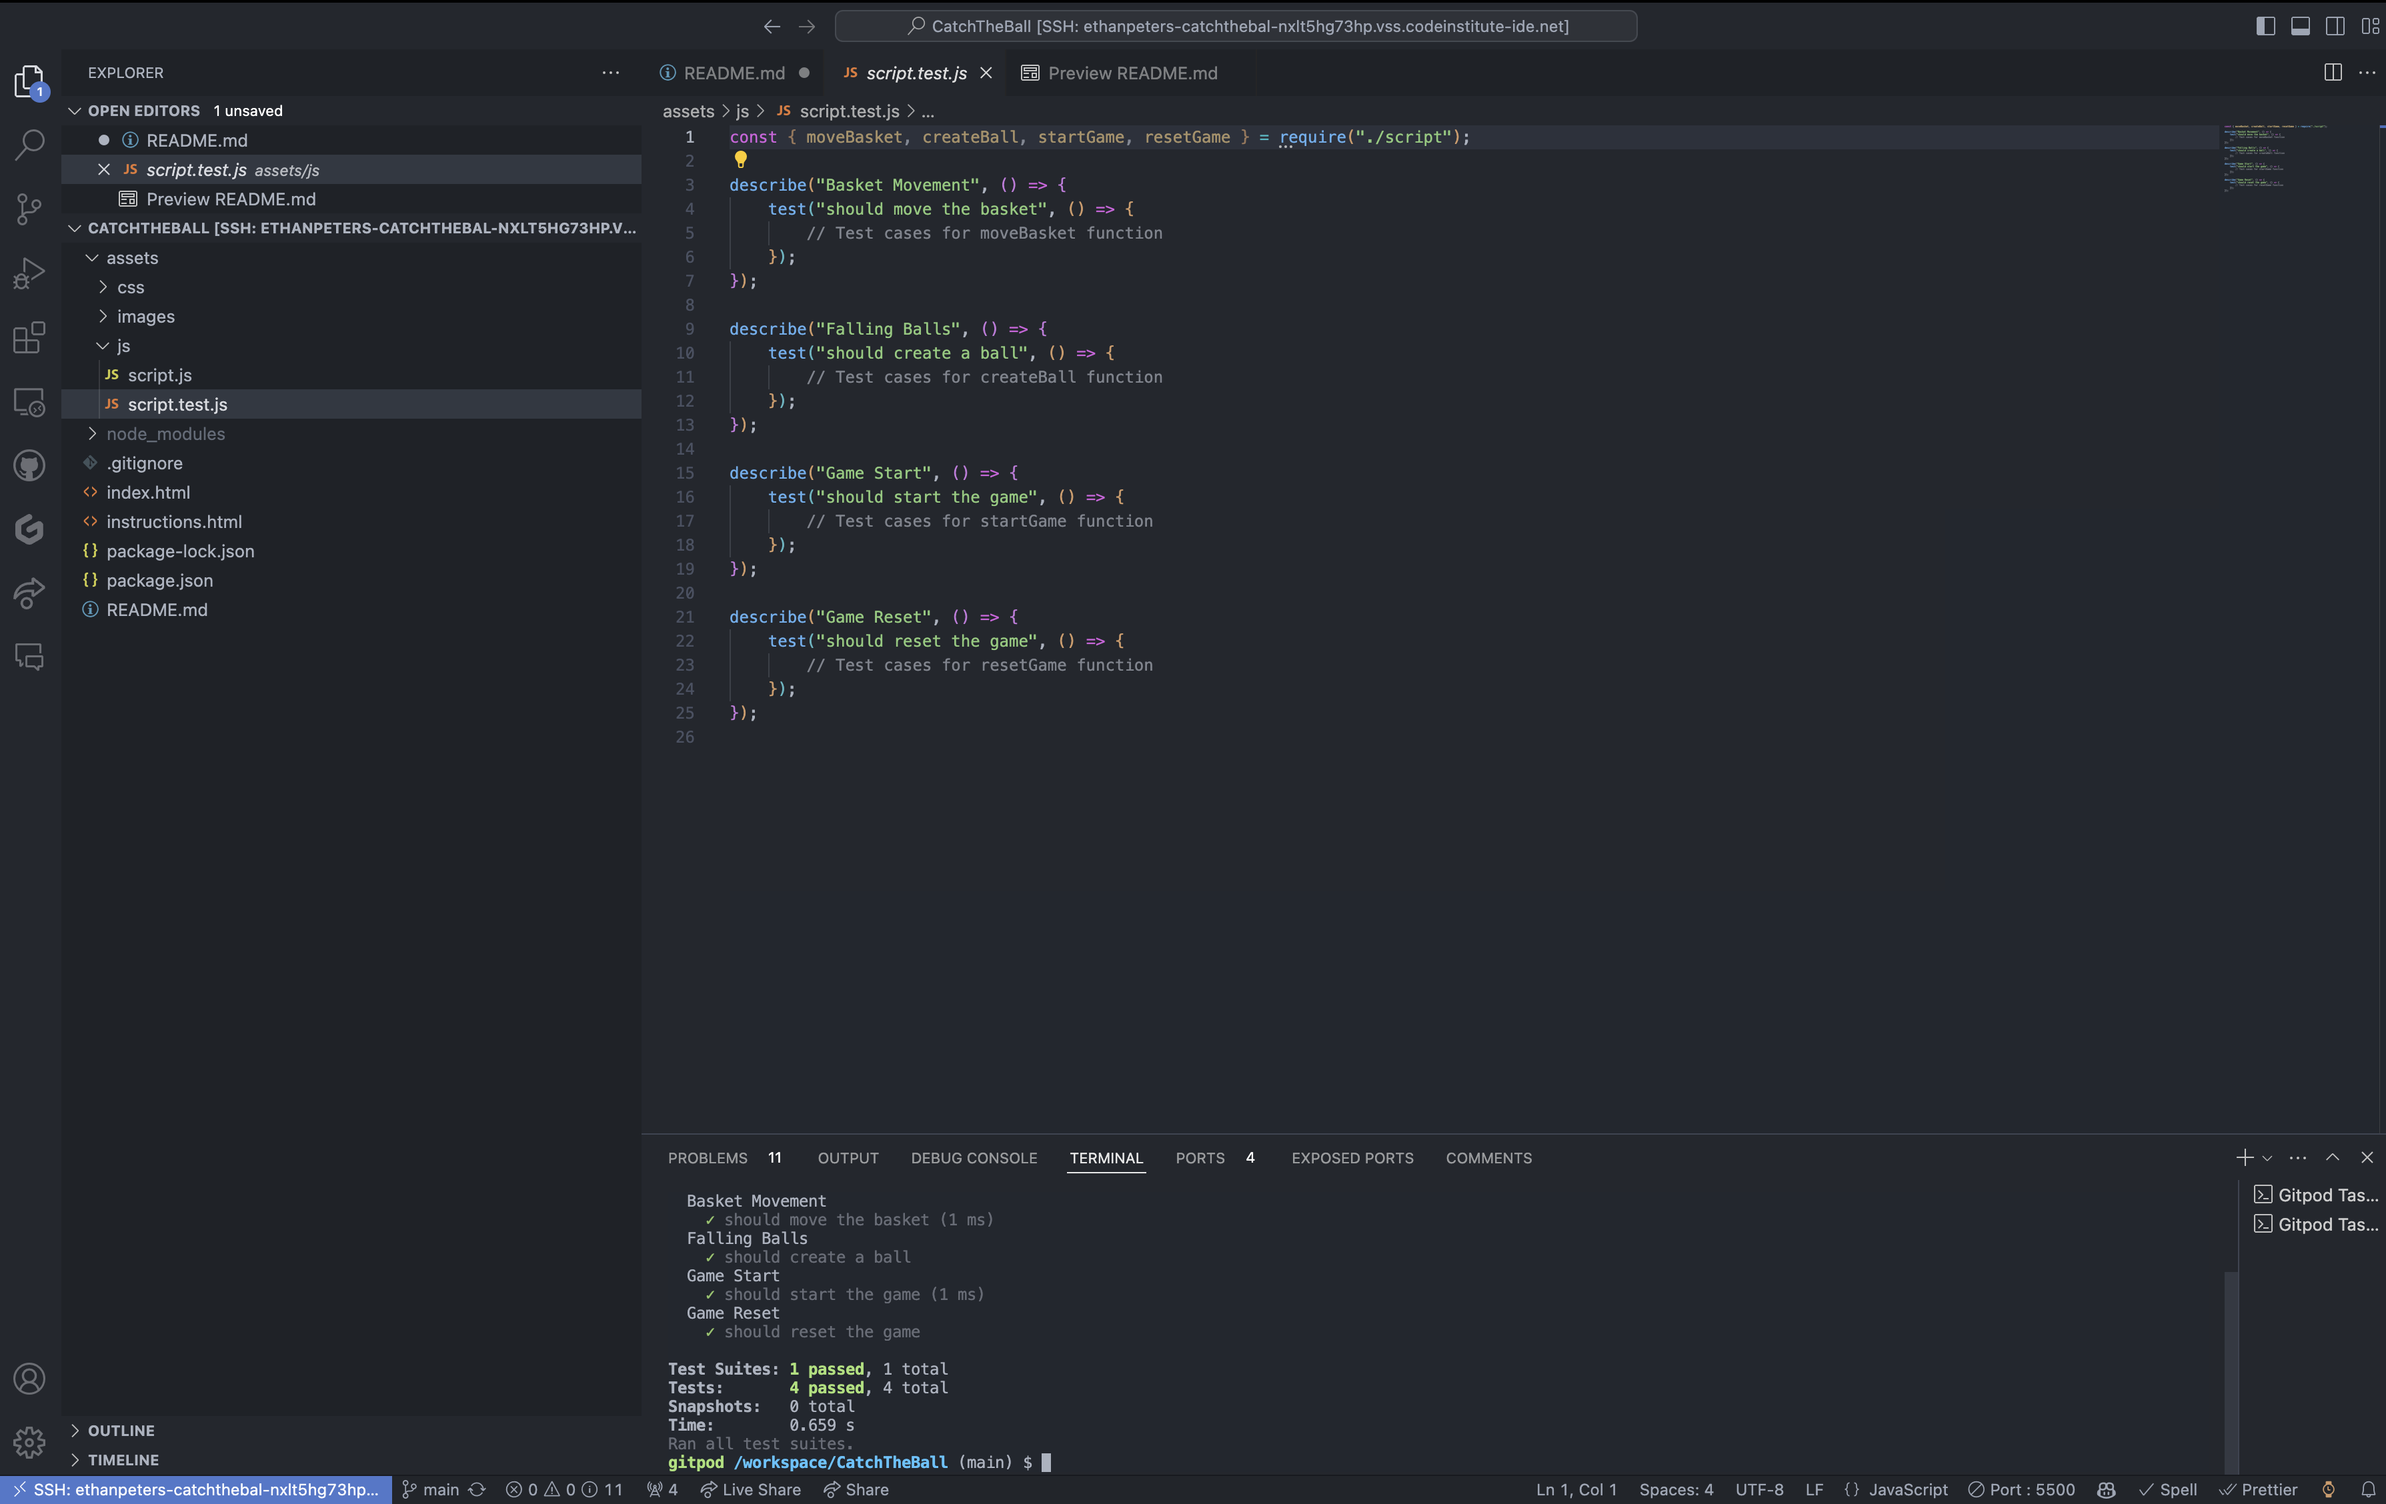
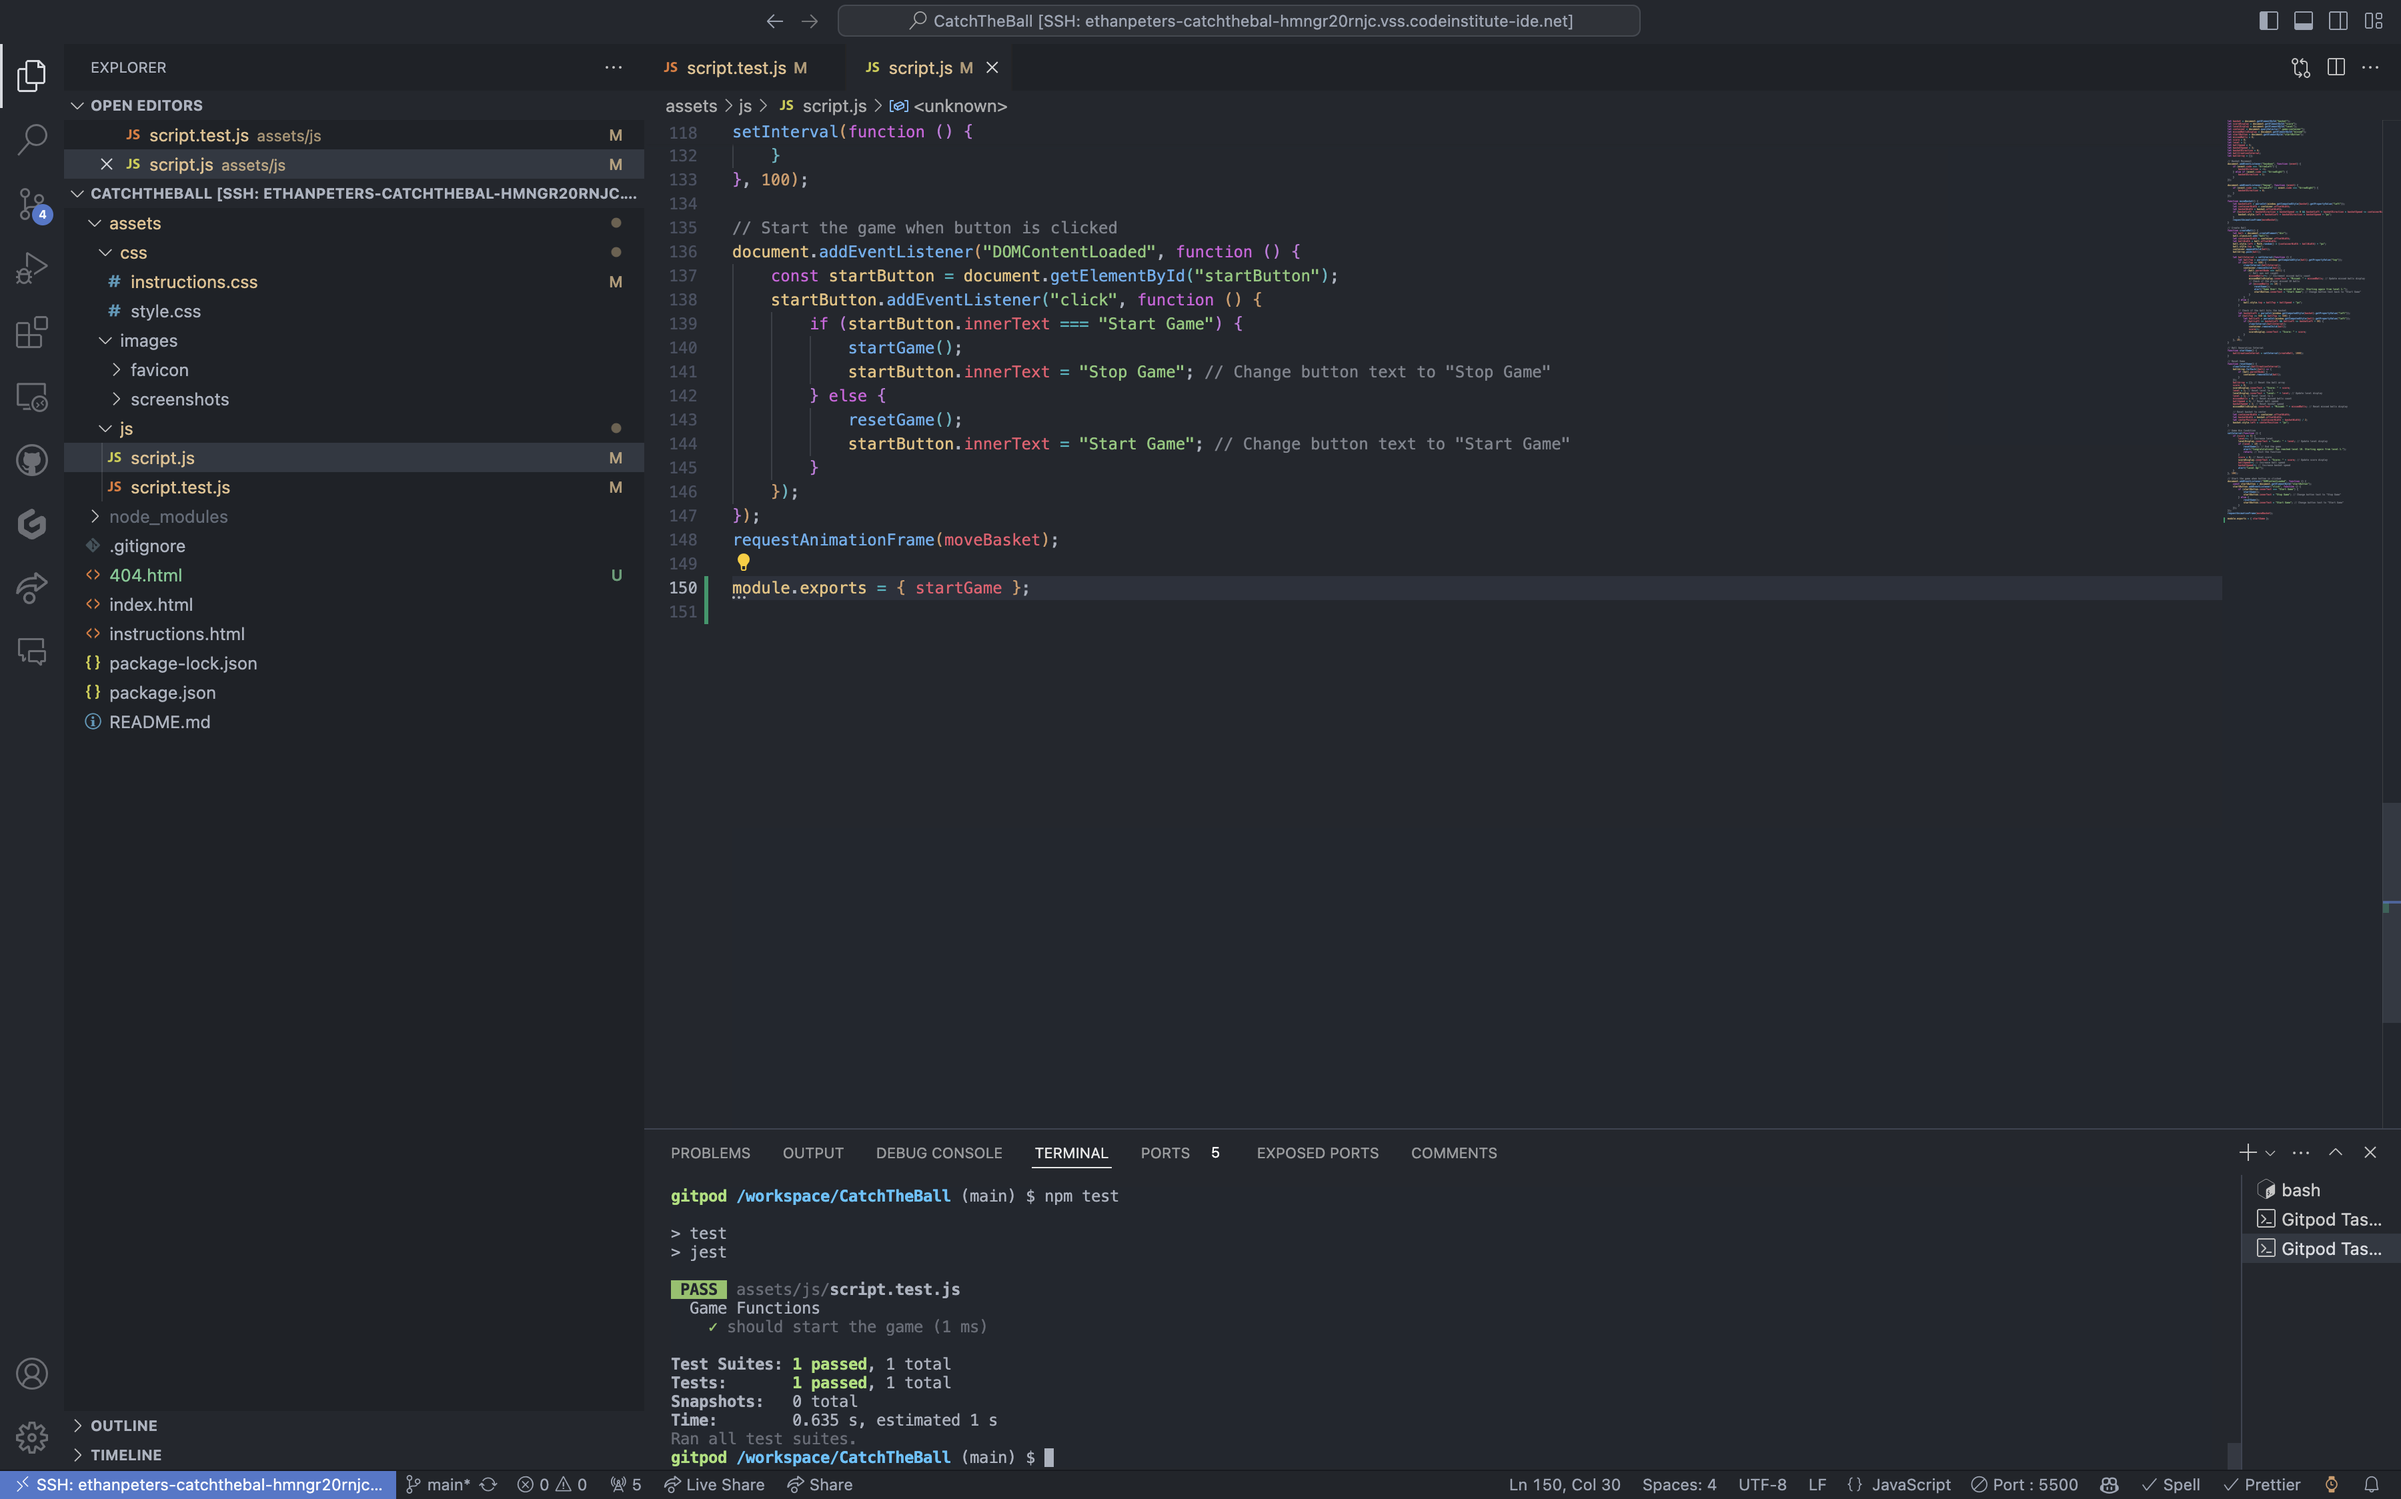
Fix typos and update links in README.md, update CSS styles for 404 page, and export startGame function in script.js

diff --git a/404.html b/404.html
@@ -1,0 +1,34 @@
+<!DOCTYPE html>
+<html lang="en">
+    <head>
+        <meta charset="UTF-8" />
+        <meta name="viewport" content="width=device-width, initial-scale=1.0" />
+        <link rel="stylesheet" href="assets/css/instructions.css" />
+        <title>Catch the Ball</title>
+        <meta name="description" content="Catch the ball is a game made for everyone" />
+        <meta name="keywords" content="game, arcade, fun, young, old, enjoy" />
+        <meta name="author" content="Ethan Peters" />
+        <link rel="apple-touch-icon" sizes="180x180" href="assets/images/favicon/apple-touch-icon.png" />
+        <link rel="icon" type="image/png" sizes="32x32" href="assets/images/favicon/favicon-32x32.png" />
+        <link rel="icon" type="image/png" sizes="16x16" href="assets/images/favicon/favicon-16x16.png" />
+        <link rel="manifest" href="/site.webmanifest" />
+    </head>
+    <body>
+        <!--title-->
+        <h1 class="title">Catch the Ball 🏀</h1>
+        <h2 class="header">404</h2>
+        <div class="error-container">
+            <!--404-message-->
+            <p class="error">Oops! The page you are looking for does not exist. Click the back to game button to return to the game.</p>
+        </div>
+        <!--back to game button-->
+        <a href="index.html" class="btn">Back to Game</a>
+        <!--credit content-->
+        <footer>
+            <p class="credits">
+                Made with ❤ by
+                <a href="https://github.com/EthanPeters96" target="_blank">Ethan Peters</a>
+            </p>
+        </footer>
+    </body>
+</html>

diff --git a/assets/js/script.test.js b/assets/js/script.test.js
@@ -1,25 +1,9 @@
-const { moveBasket, createBall, startGame, resetGame } = require("./script");
+const { startGame } = require("./script");
 
-describe("Basket Movement", () => {
-    test("should move the basket", () => {
-        // Test cases for moveBasket function
-    });
-});
-
-describe("Falling Balls", () => {
-    test("should create a ball", () => {
-        // Test cases for createBall function
-    });
-});
-
-describe("Game Start", () => {
+describe("Game Functions", () => {
     test("should start the game", () => {
-        // Test cases for startGame function
-    });
-});
-
-describe("Game Reset", () => {
-    test("should reset the game", () => {
-        // Test cases for resetGame function
+        const startButton = { innerText: "Start Game" };
+        startGame();
+        expect(startButton.innerText).toBe("Start Game");
     });
 });

diff --git a/assets/css/instructions.css b/assets/css/instructions.css
@@ -50,6 +50,24 @@ body {
     color: black;
 }
 
+/********* 404 styling *********/
+.error-container {
+    position: relative;
+    width: 400px;
+    margin: 0 auto;
+    display: flex;
+    justify-content: center;
+    align-items: center;
+    height: 100vh;
+}
+
+.error {
+    text-align: center;
+    font-size: 40px;
+    font-weight: bold;
+    color: black;
+}
+
 /********* header styling *********/
 
 .header {

diff --git a/assets/js/script.js b/assets/js/script.js
@@ -146,3 +146,5 @@ document.addEventListener("DOMContentLoaded", function () {
     });
 });
 requestAnimationFrame(moveBasket);
+
+module.exports = { startGame };

diff --git a/README.md b/README.md
@@ -125,7 +125,7 @@ To clone the repository:
 
 ### Jest Testing
 
-I have written a testing script using jest, all the tests pass
+I have written a testing script using jest, the test pass
 
 ![Jest](/assets/images/screenshots/jest.png)
 
@@ -146,8 +146,6 @@ I have written a testing script using jest, all the tests pass
 | Back To Game   | Click on back to game button | The user is redirected back to game         | Yes    | Yes    | -        |
 
 The site was also tested using dev tools on Google Chrome for responsiveness.
-
-Favicon does not work on live site however does work on local deployment.
 
 ### LightHouse
 
@@ -186,6 +184,8 @@ I have used [W3C](https://www.w3.org/) & [JSHint](https://jshint.com/) to valida
 I followed some guidance from my mentor.
 
 I used AI assistance for my script.
+
+I used a YouTube video from [Iammcoding](https://www.youtube.com/shorts/3lAVv33yFgI?app=desktop) for help in creating my script.
 
 ### Acknowledgments
 
